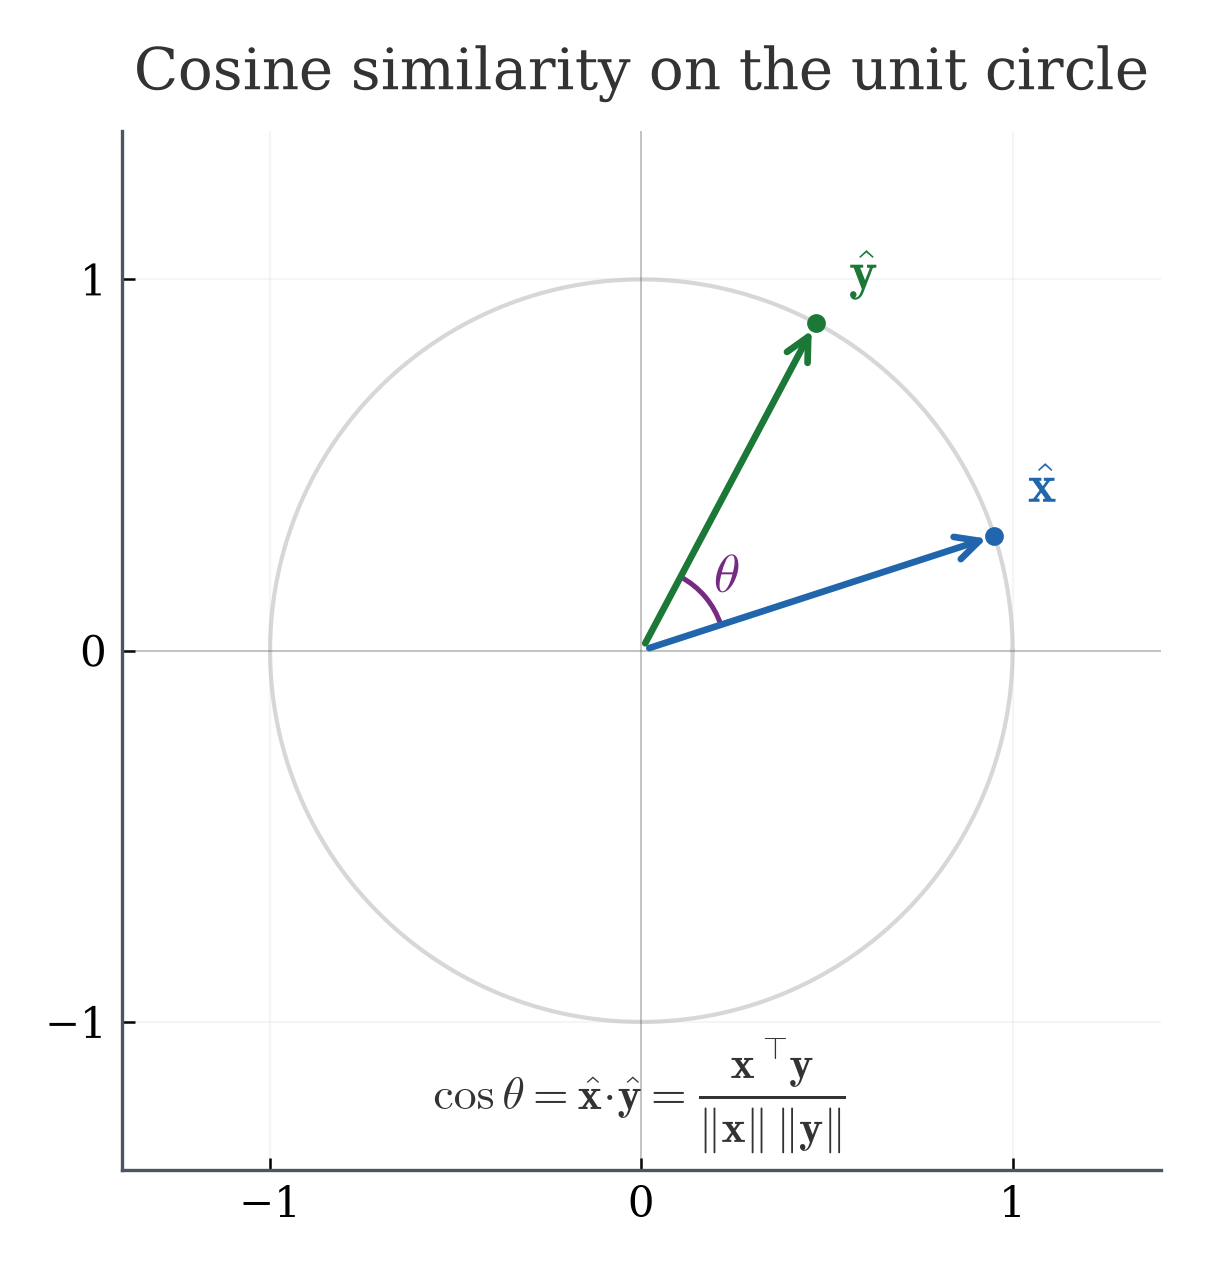
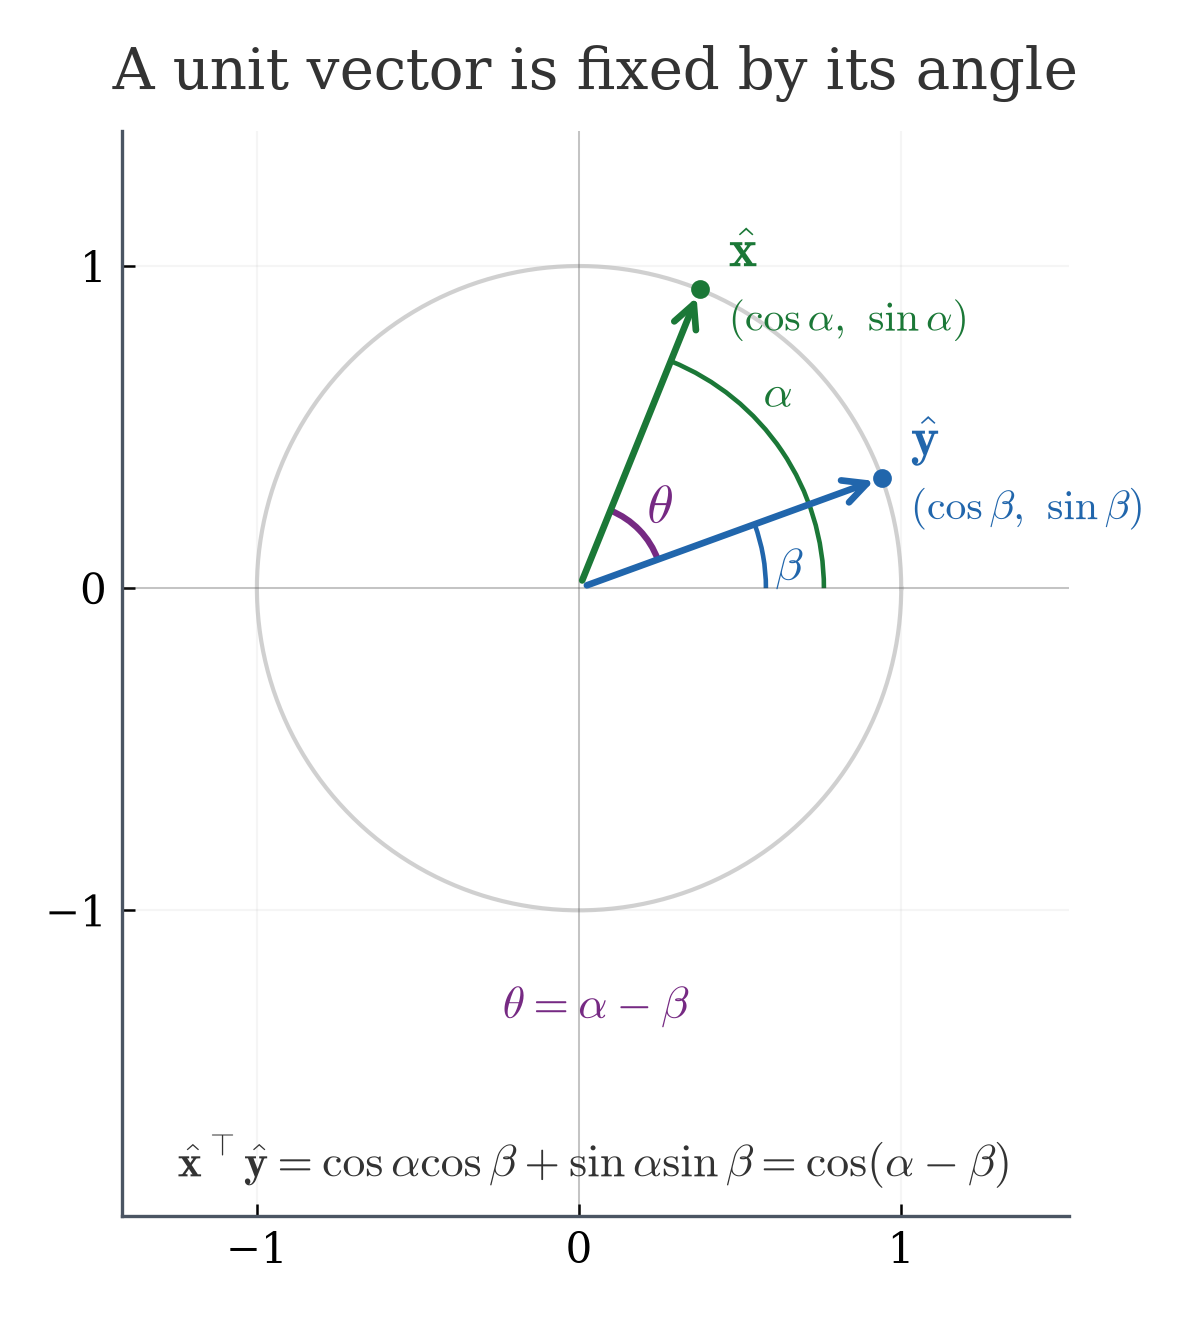
Republish Unit 1: cosine sequence rebuilt

diff --git a/slides/math-for-ds-unit01.html b/slides/math-for-ds-unit01.html
@@ -427,56 +427,64 @@ Distance is the <strong>size of the difference</strong> — so <em>every</em> no
 <aside class="notes">"Imagine a harsh critic who gives every movie a 2. And a generous critic who gives the same movies an 8. They AGREE on which movies are good and which are bad — they just use different scales. Euclidean distance says they're far apart. But a recommendation system should treat them as identical. Cosine similarity does exactly that."</aside>
 </section>
 
-<!-- S29: Unit vectors — the key insight -->
+<!-- S29: Unit vectors — strip the length -->
 <section>
 <h4>First, strip the length: unit vectors</h4>
+<p>We want direction without size. So divide any <strong>nonzero</strong> vector by its own length — whatever is left <em>is</em> its direction:</p>
+<div class="mathbox">
+\[\hat{\mathbf{x}} = \frac{\mathbf{x}}{\norm{\mathbf{x}}_2}\]
+</div>
+<ul>
+<li class="fragment">\(\hat{\mathbf{x}}\) points the <strong>same way</strong> as \(\mathbf{x}\) but has length exactly 1. (\(\mathbf{x} = \mathbf{0}\) is excluded: length \(0\), nothing to divide by, no direction.)</li>
+<li class="fragment">Our two movie fans: \(\norm{(8,2,0)}_2 = \sqrt{68}\) and \(\norm{(4,1,0)}_2 = \sqrt{17} = \sqrt{68}/2\), so <strong>both</strong> become \((8,2,0)/\sqrt{68} \approx (0.97,\, 0.24,\, 0)\) — the <em>same</em> vector. Check: \(0.97^2 + 0.24^2 \approx 1\). The intensity gap is gone; the shared taste survives.</li>
+</ul>
+<div class="key-question fragment">Now the payoff. Two unit vectors, one dot product — <strong>that number turns out to be the cosine of the angle between them.</strong> Next slide proves it.</div>
+<aside class="notes">"This is the whole idea; everything after it is bookkeeping. If two people disagree only in how loudly they rate, normalizing makes them literally the same vector." "Watch the check: it is the sum of SQUARES that is 1, not the sum. 0.97 + 0.24 is 1.21 and that is fine — length is Pythagoras, not addition. Someone will trip on this." "End on the question, do not answer it. Why bother with unit vectors at all? Because once both have length 1, their dot product is exactly the cosine — that is the next slide and it is a real proof, not a naming convention."</aside>
+</section>
+
+<!-- S28b: dot product of unit vectors IS a cosine -->
+<section>
+<h4>Two unit vectors: the dot product <em>is</em> a cosine</h4>
 <div style="display:flex; align-items:center; gap:1em;">
 <div style="flex:1;">
-<p>We want direction without size. So divide any <strong>nonzero</strong> vector by its own length — whatever is left <em>is</em> its direction:</p>
-\[\hat{\mathbf{x}} = \frac{\mathbf{x}}{\norm{\mathbf{x}}_2}\]
 <ul>
-<li class="fragment">\(\hat{\mathbf{x}}\) points in the <strong>same direction</strong> as \(\mathbf{x}\), but has length exactly 1.</li>
-<li class="fragment">Every \(\hat{\mathbf{x}}\) has length 1, so in the picture they all sit on the unit <strong>circle</strong> — in \(\R^3\) it is the unit <strong>sphere</strong>, and in \(\R^d\) the same idea. Size is gone; only the angle is left.</li>
-<li class="fragment">\(\mathbf{x} = \mathbf{0}\) is the exception: length \(0\), nothing to divide by, and no direction to speak of. Cosine similarity is <strong>undefined</strong> there — a real case, e.g. a user who has rated nothing.</li>
+<li class="fragment">In the plane, a unit vector sits on the unit circle, so it is fixed by its own angle:
+\(\hat{\mathbf{x}} = (\cos\alpha,\ \sin\alpha)\), \(\hat{\mathbf{y}} = (\cos\beta,\ \sin\beta)\).</li>
+<li class="fragment">Dot them, then use the angle-subtraction identity you already know:
+\[\hat{\mathbf{x}}^\top \hat{\mathbf{y}} = \cos\alpha\cos\beta + \sin\alpha\sin\beta = \cos(\alpha - \beta).\]</li>
+<li class="fragment">And \(\alpha - \beta\) <em>is</em> the angle between them. Nothing was named — it was <strong>derived</strong>.</li>
 </ul>
-<div class="applied fragment">Try it on the last slide: \(\norm{(8,2,0)}_2 = \sqrt{68}\) and \(\norm{(4,1,0)}_2 = \sqrt{17} = \sqrt{68}/2\), so <strong>both</strong> normalize to \((8,2,0)/\sqrt{68} \approx (0.97,\, 0.24,\, 0)\) — the <em>same</em> vector. The intensity gap is gone; the shared taste survives.</div>
 </div>
-<img src="../images/unit01/u1-L01-fig04-cosine-unit-circle.png" alt="Cosine similarity on unit circle" style="max-height:450px; max-width:45%; border-radius:6px;">
+<img src="../images/unit01/u1-L01-fig04-cosine-unit-circle.png" alt="Two unit vectors at angles alpha and beta on the unit circle" style="max-height:330px; max-width:42%; border-radius:6px;">
 </div>
-<aside class="notes">"This slide is the whole idea; the formula on the next slide is just bookkeeping. If two people disagree only in how loudly they rate, normalizing makes them literally the same vector." "Normalizing = shrinking to length 1. It removes magnitude and keeps only direction. Like converting a recipe from '4 cups flour, 2 cups sugar' to '2 parts flour, 1 part sugar' — the proportions are what matter, not the absolute amounts."</aside>
+<aside class="notes">"Do this on the board even with the figure up — one precalculus identity, thirty seconds." "Check the two ends with them: alpha = beta gives cos 0 = 1, same direction; alpha - beta = 90 degrees gives cos 90 = 0, perpendicular." "This slide is why unit vectors were worth introducing. Say so."</aside>
 </section>
 
 <!-- S28: Now name it: cosine similarity -->
 <section>
 <h4>Now name it: cosine similarity</h4>
-<p>Now just take the dot product of the two unit vectors — and the denominators fall out:</p>
+<p>That settles unit vectors. What about two <strong>ordinary</strong> vectors, of any length? Normalize each one first, then dot — which is the same as dividing at the end:</p>
 <div class="mathbox">
 \[\cos\theta \;=\; \hat{\mathbf{x}}^\top \hat{\mathbf{y}} \;=\; \frac{\mathbf{x}^\top \mathbf{y}}{\norm{\mathbf{x}}_2 \, \norm{\mathbf{y}}_2}\]
 </div>
-<p class="fragment">The denominator is not a fudge factor: it <em>is</em> the normalizing step, done to both vectors at once. The value always lands in \([-1,1]\) — next slide shows why it deserves the name \(\cos\).</p>
+<p class="fragment">So the denominator is not a fudge factor: it <em>is</em> the normalizing step, written into the formula. For unit vectors it equals 1 and the formula collapses back to the last slide.</p>
+<div class="applied fragment">In \(\R^{300}\) there is no picture to read an angle off, so we run it backwards and <strong>define</strong> the angle by \(\theta = \arccos(\cdot)\). Legal because the value never leaves \([-1,1]\), and safe because in the plane we just proved it agrees with the ordinary angle.</div>
+<aside class="notes">"The first sentence is the one that matters: unit vectors were the special case, and this is the general one. Normalizing first and dividing at the end are the same arithmetic." "For unit vectors the denominator is 1 times 1, so this formula IS the previous slide. Say that; it stops the formula looking new." "The last box is the honest part — in high dimensions this stops being a theorem and becomes a definition, which is also how MML introduces it. Cauchy-Schwarz is the reason the value stays in [-1, 1]; name it, do not prove it today."</aside>
+</section>
+
+<!-- S28c: reading the number -->
+<section>
+<h4>Reading the number</h4>
 <table>
 <tr><th>Value</th><th>Meaning</th><th>Example</th></tr>
 <tr><td>\(\cos\theta = 1\)</td><td>Same direction</td><td>Two action fans (different intensity)</td></tr>
+<tr><td>\(\cos\theta \approx 0.9\)</td><td>Strong agreement</td><td>Mostly the same taste, minor disagreements</td></tr>
 <tr><td>\(\cos\theta = 0\)</td><td>Perpendicular</td><td>Action fan vs. someone who only cares about comedy</td></tr>
 <tr><td>\(\cos\theta = -1\)</td><td>Opposite direction</td><td>One loves what the other hates</td></tr>
 </table>
-<div class="applied fragment">Google Search ranks pages by cosine similarity between your query vector and each page's vector.</div>
-<aside class="notes">"When you Google something, the search engine turns your query into a vector and every web page into a vector. It computes cosine similarity between your query and each page. Highest cosine = best match. That's why a search for 'best pizza near me' returns pizza reviews, not sushi restaurants — high cosine similarity."</aside>
-</section>
-
-<!-- S28b: why is it a cosine -->
-<section>
-<h4>Why is that number a cosine?</h4>
-<p>Fair question — so far we only <em>called</em> it \(\cos\theta\). In the plane we can check it.</p>
-<ul>
-<li class="fragment">Every unit vector sits on the unit circle, so it is fixed by its own angle:
-\(\hat{\mathbf{x}} = (\cos\alpha,\ \sin\alpha)\), \(\hat{\mathbf{y}} = (\cos\beta,\ \sin\beta)\).</li>
-<li class="fragment">Dot them, and use the angle-subtraction identity you already know:
-\[\hat{\mathbf{x}}^\top \hat{\mathbf{y}} = \cos\alpha\cos\beta + \sin\alpha\sin\beta = \cos(\alpha - \beta).\]</li>
-<li class="fragment">And \(\alpha - \beta\) <em>is</em> the angle between them. So the name is earned, not assumed.</li>
-</ul>
-<div class="applied fragment">In \(\R^{300}\) there is no picture to read an angle off. So we turn it around and <strong>define</strong> the angle by \(\theta = \arccos(\hat{\mathbf{x}}^\top\hat{\mathbf{y}})\) — legal because the value never leaves \([-1,1]\), and safe because the line above shows it agrees with the ordinary angle whenever we <em>can</em> see one.</div>
-<aside class="notes">"This is the slide that answers the question they are already thinking. Do the algebra on the board — it is one identity from precalculus and it takes thirty seconds." "Check the two ends with them: alpha = beta gives cos 0 = 1, same direction; alpha - beta = 90 degrees gives cos 90 = 0, perpendicular. Those are two of the three rows in the table they just saw, now derived rather than asserted." "The last box is the honest part. In high dimensions this stops being a theorem and becomes a definition. Say that out loud — students respect it, and it is how MML does it too. The fact that the ratio never escapes [-1, 1] is the Cauchy-Schwarz inequality; name it, do not prove it today."</aside>
+<p class="fragment">Two of these are already proved: \(\alpha = \beta\) gives \(\cos 0 = 1\), and \(\alpha - \beta = 90^\circ\) gives \(\cos 90^\circ = 0\).</p>
+<div class="applied fragment">Google turns your query into a vector and every page into a vector, then ranks by cosine similarity. Highest cosine wins — which is why "best pizza near me" returns pizza reviews and not sushi.</div>
+<aside class="notes">"Add the 0.9 row deliberately — students anchor on the three extremes and then read 0.14 as agreement. Put a number on what 'strong' means." "Point back at the derivation for the first and third rows: those two are not conventions, we proved them two slides ago."</aside>
 </section>
 
 <!-- S27: Worked example step 1 -->
